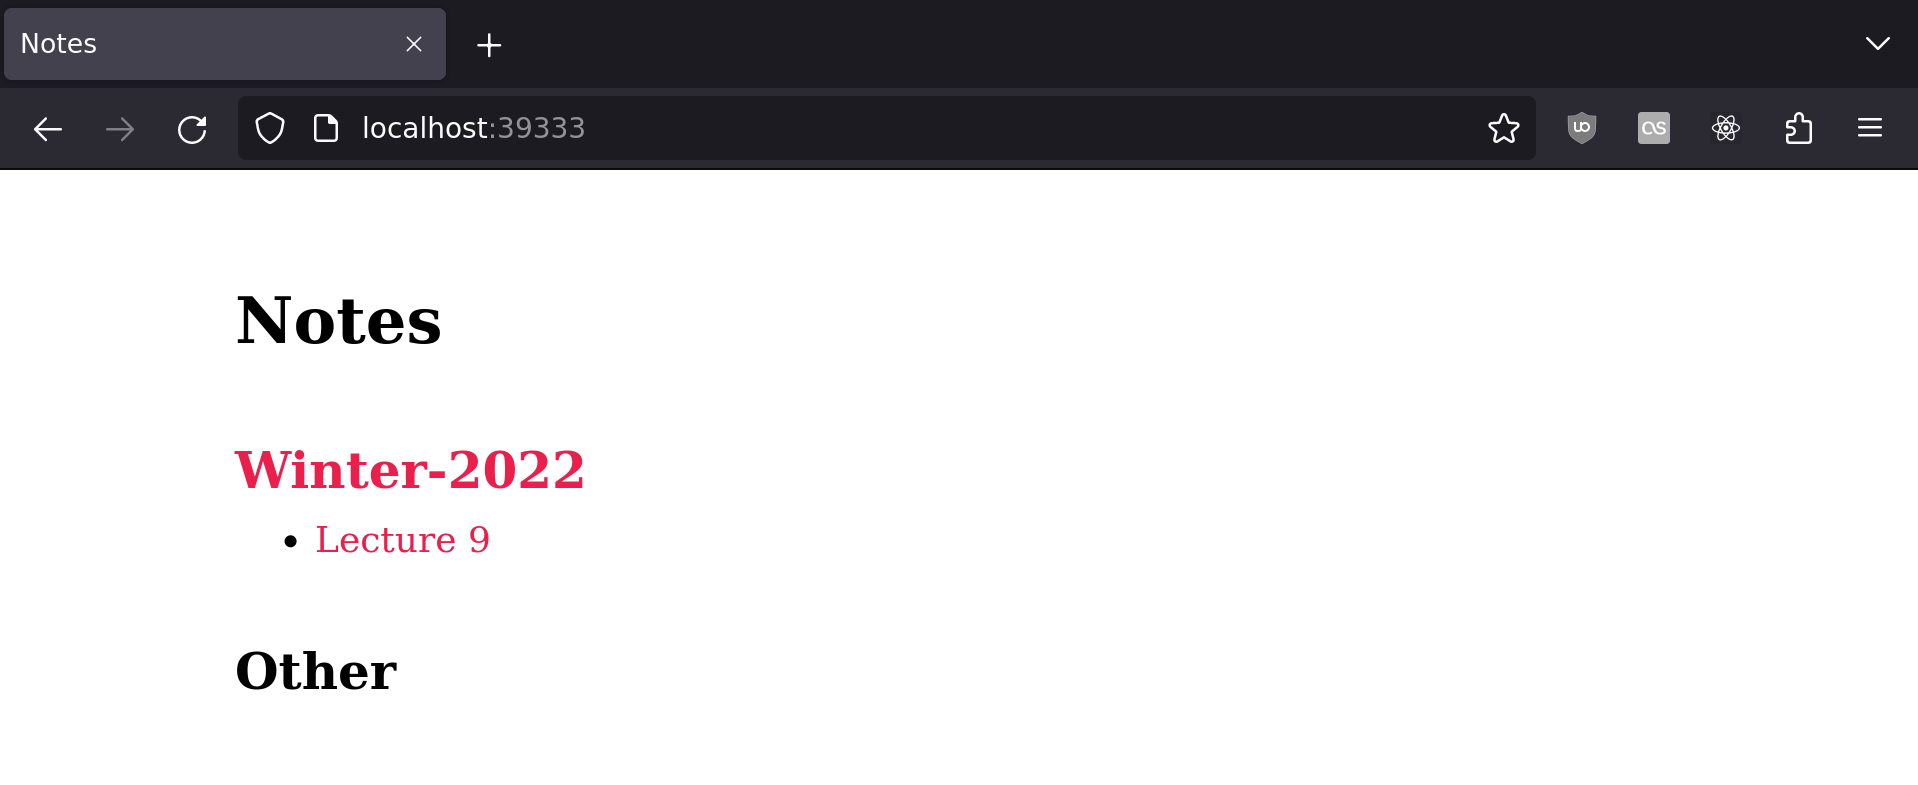
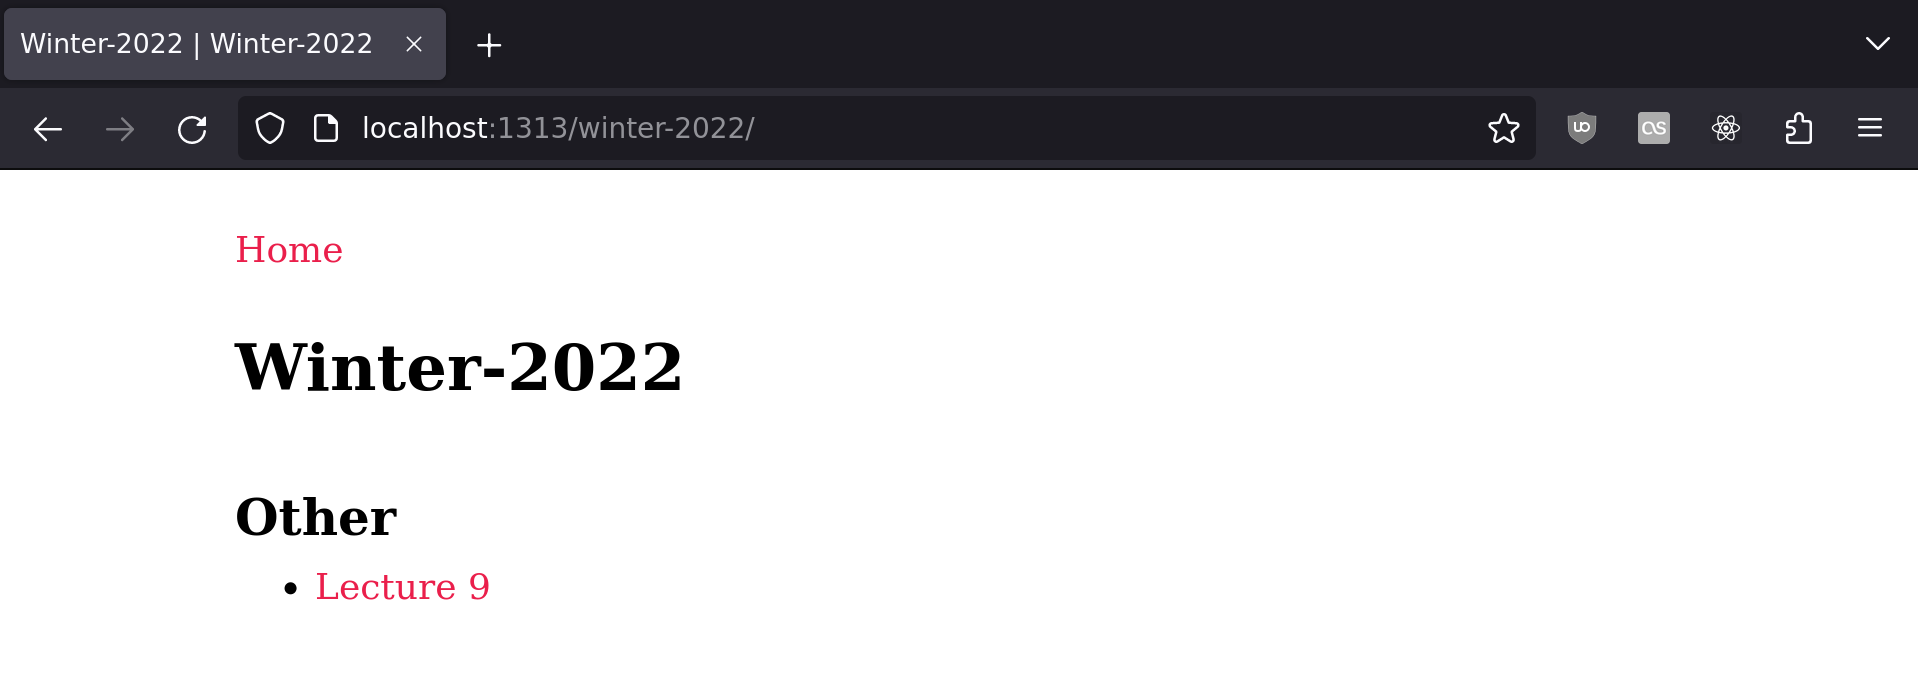
Make screenshots use port 1313 & fix typo, show some katex fonts

diff --git a/2023/02/how-to-create-a-hugo-website-without-a-theme.md b/2023/02/how-to-create-a-hugo-website-without-a-theme.md
@@ -297,7 +297,14 @@ If you host the files yourself, just download and move the necessary files to `s
         ├── contrib
         │   └── auto-render.min.js
         ├── fonts
-        │   └── ✀
+        │   ├── KaTeX_AMS-Regular.ttf
+        │   ├── KaTeX_AMS-Regular.woff
+        │   ├── KaTeX_AMS-Regular.woff2
+        │   ├── KaTeX_Caligraphic-Bold.ttf
+        │   ├── KaTeX_Caligraphic-Bold.woff
+        │   ├── KaTeX_Caligraphic-Bold.woff2
+        │   ├── KaTeX_Caligraphic-Regular.ttf
+        │   └── … (more fonts here, not shown to save space)
         ├── katex.min.css
         └── katex.min.js
 ```
